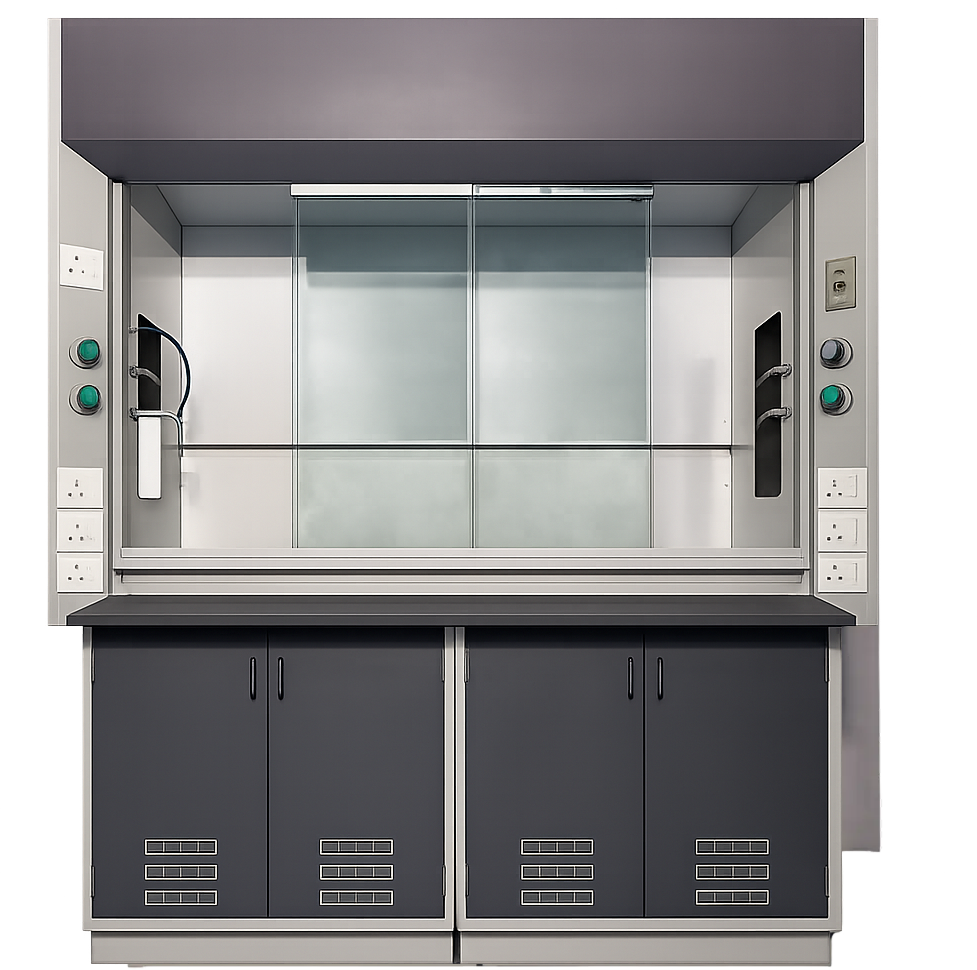
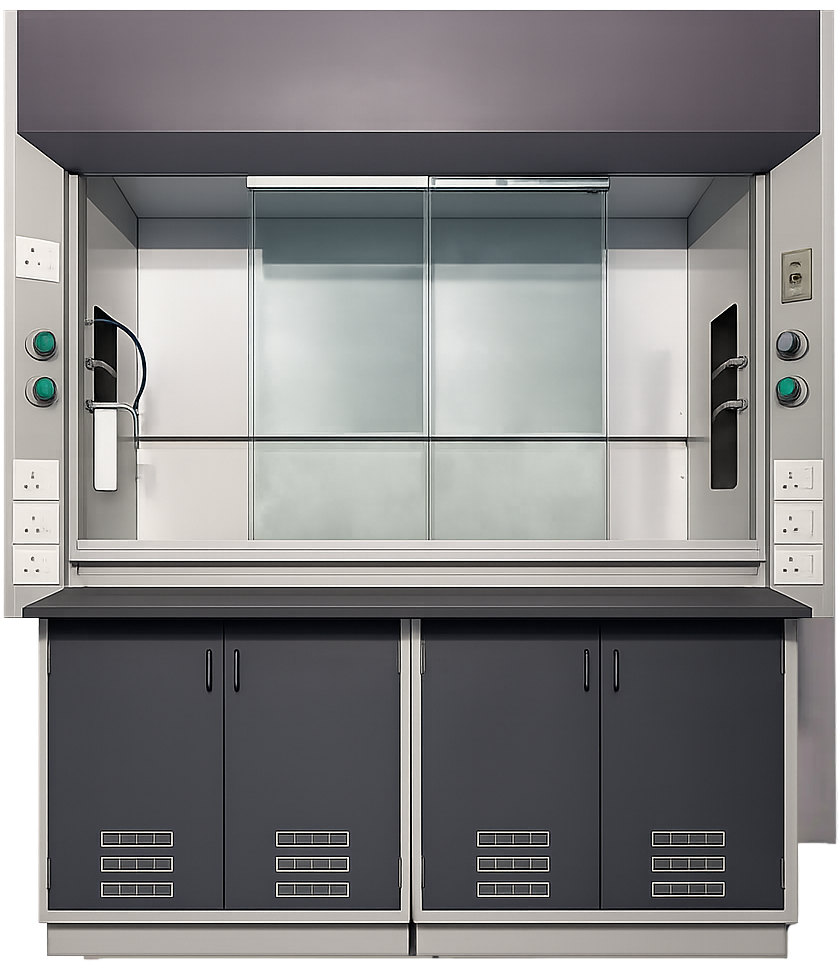
update fume hoods image

diff --git a/src/components/About/About.jsx b/src/components/About/About.jsx
@@ -204,7 +204,7 @@ const About = () => {
           </div>
         </div>
 
-        <div className=' my-10 pt-5'>
+        {/* <div className=' my-10 pt-5'>
           <div className='text-center md:text-start md:max-w-[85%] mx-auto md:flex justify-between items-center pt-5 border-blue-600'>
             <h1 className='text-3xl font-medium md:w-[373px]  md:text-[40px] md:text-left my-2 '>Our
               Expert Team</h1>
@@ -233,7 +233,41 @@ const About = () => {
             ))}
           </div>
 
+        </div> */}
+
+        <div className='my-10 pt-5'>
+  <div className='text-center md:text-start md:max-w-[85%] mx-auto md:flex justify-between items-center pt-5 border-blue-600'>
+    <h1 className='text-3xl font-medium md:w-[373px] md:text-[40px] md:text-left my-2'>
+      Our Expert Team
+    </h1>
+    <p className='text-[15px] py-2 md:py-0 md:w-[283px] text-[#7A7A7A]'>
+      Driving innovation and excellence to craft products that transform ideas into reality.
+    </p>
+  </div>
+
+  <div className="grid grid-cols-2 md:grid-cols-5 md:max-w-[85%] h-auto my-10 mx-auto gap-4">
+    {TeamData.map((card) => (
+      <div
+        key={card.id}
+        className="bg-white border border-[#CDCDCD] rounded-lg overflow-hidden"
+      >
+        {/* Fixed Image Container */}
+        <div className="relative w-full aspect-[4/4.2] bg-gray-100">   {/* Consistent aspect ratio */}
+          <img
+            src={card.imgSrc}
+            alt={card.name}
+            className="w-full h-full object-cover rounded-t-lg"   
+          />
         </div>
+
+        <div className="pt-3 pb-4 bg-[#f8f8f8]">
+          <h3 className="text-lg text-center font-medium">{card.name}</h3>
+          <p className="mt-1 text-center text-[#1782C5]">{card.role}</p>
+        </div>
+      </div>
+    ))}
+  </div>
+</div>
       </div>
     </div>
   )

diff --git a/src/components/Allproductpage/FumeHoods.jsx b/src/components/Allproductpage/FumeHoods.jsx
@@ -1,7 +1,7 @@
 import React, { useState } from "react";
 import Header from "../Home/Header";
-import img1 from "../../assets/images/fume/fumehoods.webp";
-import art1 from "../../assets/images/fume/fume.webp";
+import img1 from "../../assets/images/fume/Fume-Hoods-Stage.png";
+import art1 from "../../assets/images/fume/Fume-Hoods.png";
 import art2 from "../../assets/images/art2.webp";
 import art3 from "../../assets/images/art3.webp";
 import vector from "../../assets/images/Vector.svg";
@@ -145,7 +145,7 @@ const FumeHoods = () => {
                       <img
                         src={card.image}
                         alt={`Card ${index + 1}`}
-                        className="w-auto h-[302px] md:w-[221px] object-cover"
+                        className="w-auto h-[302px] md:w-[221px] object-contain"
                       />
                     </div>
 

diff --git a/src/components/products/AirFumeHood.jsx b/src/components/products/AirFumeHood.jsx
@@ -3,9 +3,9 @@ import Header from '../Home/Header'
 import whatsapp from '../../assets/images/Whatsapp1.svg'
 import rightArrow from '../../assets/images/Chevron_Right.svg'
 import Assistants from '../Home/Assistants'
-import product1 from '../../assets/images/fume/fume.webp'
-import product2 from '../../assets/images/fume/fume.webp'
-import product3 from '../../assets/images/fume/fume.webp'
+import product1 from '../../assets/images/fume/Fume-Hoods.png'
+import product2 from '../../assets/images/fume/Fume-Hoods.png'
+import product3 from '../../assets/images/fume/Fume-Hoods.png'
 
 
 

diff --git a/src/components/Home/About.jsx b/src/components/Home/About.jsx
@@ -2,7 +2,7 @@ import React from 'react'
 import banner from '../../assets/images/AirbioBanner.png'
 import art1 from '../../assets/images/biosafety/bsc.jpg'
 // import art1 from '../../assets/images/biosafety1.jpg'
-import art2 from '../../assets/images/fume/fume.webp'
+import art2 from '../../assets/images/fume/Fume-Hoods.png'
 // import art2 from '../../assets/images/biosafety.jpg'
 import art3 from '../../assets/images/laminar/laf.webp'
 // import art4 from '../../assets/images/PCRworkstation/PCRWorkststion-GaneSafe.png'
@@ -161,7 +161,7 @@ const About = () => {
             {/* Card 2 - Fume Hoods */}
             <div className="min-w-[318px] md:min-w-0 w-full max-w-[350px] h-[530px] md:h-[500px] flex flex-col justify-center items-center rounded-3xl p-4 border border-[#CDCDCD]">
                 <h2 className="p-[4px] py-2 px-4 mb-2 bg-[#1782C5] text-white rounded-[50px]">Fume Hoods</h2>
-                <img src={art2} alt="Fume Hoods" className="w-full h-[369px] md:w-[280px] object-cover mb-2 rounded-xl" />
+                <img src={art2} alt="Fume Hoods" className="w-full h-[369px] md:w-[280px] object-contain mb-2 rounded-xl" />
                 <Link to="/product/FumeHoods">
                     <button className="px-4 py-2 flex bg-black hover:bg-[#1782C5] text-white justify-center items-center gap-2 rounded-[50px] border-[#CDCDCD] hover:border-[#1782C5]">
                         View More

diff --git a/src/components/products/DiscoverProducts.jsx b/src/components/products/DiscoverProducts.jsx
@@ -5,7 +5,7 @@ import React from 'react'
 import vector from '../../assets/images/Vector.svg'
 import Header from '../Home/Header'
 import art1 from '../../assets/images/biosafety/bsc.jpg'
-import art2 from '../../assets/images/fume/fume.webp'
+import art2 from '../../assets/images/fume/Fume-Hoods.png'
 import art3 from '../../assets/images/laminar/laf.webp'
 import art4 from '../../assets/images/PCRworkstation/GeneSafe with glassdoor handle.png'
 import art5 from '../../assets/images/StaticPassBox/Static-Pass-Box.png'

diff --git a/src/components/products/ProductsData.jsx b/src/components/products/ProductsData.jsx
@@ -1,7 +1,7 @@
 import product1 from '../../assets/images/product1.png'
 import product2 from '../../assets/images/product2.jpeg'
 import product3 from '../../assets/images/product3.jpeg'
-import product4 from '../../assets/images/fume/fume.webp'
+import product4 from '../../assets/images/fume/Fume-Hoods.png'
 import Bproduct2 from '../../assets/images/biosafety/bsc class_B2 (Falcon)/BSC CLASS _ B2 (Falcon)-FRONT1.webp'
 import Bproduct1 from '../../assets/images/biosafety/Main bsc class 2 A2/MAIN BSC CLASS II A2-FRONT.webp'
 import Bproduct3 from '../../assets/images/biosafety/bsc class 2 B2 (Agies)/BSC CLASS II B2 (Agies)-FRONT.webp'

diff --git a/src/components/Allproductpage/PassBox.jsx b/src/components/Allproductpage/PassBox.jsx
@@ -127,6 +127,7 @@ const PassBox = () => {
                                             src={card.image}
                                             alt={card.subtitle}
                                             className="w-auto h-[302px] md:w-[221px] object-cover py-4"
+                                            style={{ objectFit: "contain" }}
                                         />
                                     </div>
 